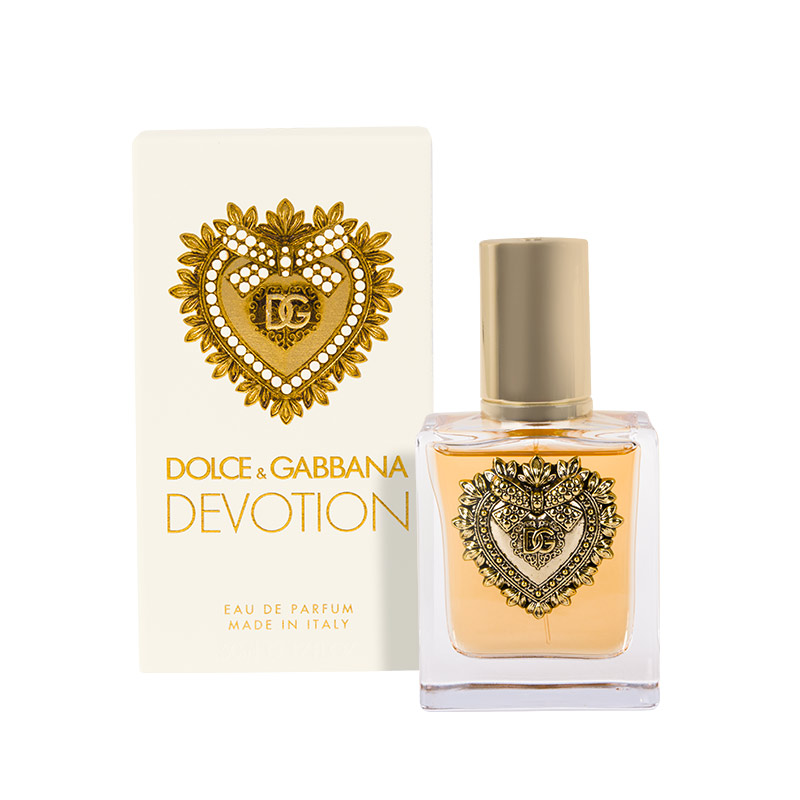
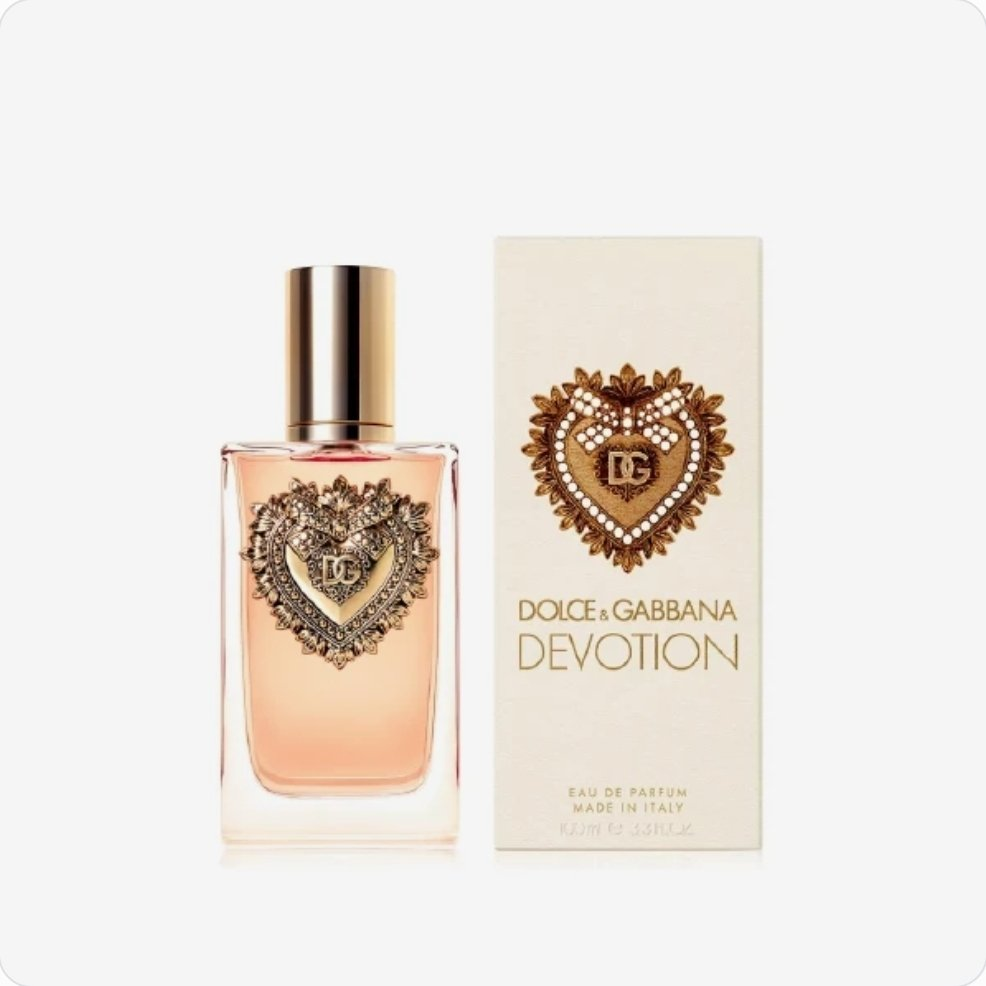
Replace D&G Devotion Intense photos with Boss's new shots

Changed region(s): [[0.1875, 0.2188, 0.8438, 0.9062]]

diff --git a/index.html b/index.html
@@ -729,7 +729,7 @@
         { name:'Afnan Supremacy Collector\'s Edition Perfume for Unisex', niche:'Afnan · Unisex · 3.4 oz EDP', direction:'Bright fruit, saffron and smoky woods', description:'Vibrant fruit and saffron open with clarity before smoky woods and amber bring depth. Polished and assertive with a versatile unisex profile.', category:'woody', images:[{src:'assets/product-afnan-supremacy-collectors.jpg', alt:'Afnan Supremacy Collector’s Edition speckled bottle in a styled dark composition'},{src:'assets/gallery-afnan-supremacy-collectors-edition-1.jpg', alt:'Afnan Supremacy Collector’s Edition bottle and box with notes breakdown ad'},{src:'assets/gallery-afnan-supremacy-collectors-edition-2.jpg', alt:'Afnan Supremacy Collector’s Edition rating and fragrance profile graphic'}], price:59, decantPrice:15, originalPrice:72, featured:38 , paymentLink:'https://buy.stripe.com/5kQfZj1Mt5fS5xUaWLf7i0T'},
         { name:'Versace Dylan Blue Cologne for Men', niche:'Versace · Men · 3.4 oz EDT', direction:'Aquatic citrus, incense and dark musk', description:'Fresh aquatic citrus and aromatics are sharpened by incense, woods and dark musk. Clean and confident with enough depth for day or night.', category:'fresh', images:[{src:'assets/product-versace-dylan-blue.jpg', alt:'Versace Dylan Blue dark blue bottle on a clean white background'},{src:'assets/gallery-versace-dylan-blue-1.jpg', alt:'Versace Dylan Blue bottle with citrus and green ingredients'},{src:'assets/gallery-versace-dylan-blue-2.jpg', alt:'Versace Dylan Blue campaign visual with model'}], price:68, decantPrice:17, originalPrice:82, featured:39 , paymentLink:'https://buy.stripe.com/eVqdRbdvb8s4aSe4ynf7i0U'},
         { name:'Coach Dreams Perfume for Women (Tester)', niche:'Coach · Women · 3.0 oz EDP · Tester', direction:'Pear, gardenia and warm woods', description:'Tester version: the authentic 3.0 oz fragrance supplied in tester packaging rather than standard retail presentation. Bright pear and gardenia rest on a warm, softly woody base.', category:'fresh', images:[{src:'assets/product-coach-dreams-tester.jpg', alt:'Coach Dreams tester bottle and box on a clean white background'},{src:'assets/product-coach-dreams-tester-2.jpg', alt:'Coach Dreams tester bottle on a clean white background'},{src:'assets/product-coach-dreams-tester-3.jpg', alt:'Coach Dreams tester bottle in a styled fruit composition'}], price:47, decantPrice:12, originalPrice:58, featured:40 , paymentLink:'https://buy.stripe.com/bJe5kFdvb23GaSee8Xf7i0V'},
-        { name:'Dolce & Gabbana Devotion Intense Perfume for Women', niche:'Dolce & Gabbana · Women · 1.7 oz EDP Intense', direction:'Candied lemon, orange blossom and warm vanilla', description:'Sparkling candied lemon melts into creamy orange blossom over a rich vanilla base. Warm, radiant and unmistakably feminine.', category:'sweet', images:[{src:'assets/product-dolce-gabbana-devotion.jpg', alt:'Dolce & Gabbana Devotion bottle and box — clean packshot'}], price:45, featured:41 , paymentLink:'https://buy.stripe.com/6oU5kFezf4bO5xUfd1f7i0G'}
+        { name:'Dolce & Gabbana Devotion Intense Perfume for Women', niche:'Dolce & Gabbana · Women · 1.7 oz EDP Intense', direction:'Candied lemon, orange blossom and warm vanilla', description:'Sparkling candied lemon melts into creamy orange blossom over a rich vanilla base. Warm, radiant and unmistakably feminine.', category:'sweet', images:[{src:'assets/product-dolce-gabbana-devotion.jpg', alt:'Dolce & Gabbana Devotion bottle and box on a clean white background'},{src:'assets/product-dolce-gabbana-devotion-2.jpg', alt:'Dolce & Gabbana Devotion bottle with gold heart medallion on a clean white background'}], price:45, featured:41 , paymentLink:'https://buy.stripe.com/6oU5kFezf4bO5xUfd1f7i0G'}
       ];
       var favoriteNames = {};
       var productGrid = document.getElementById('productGrid');
